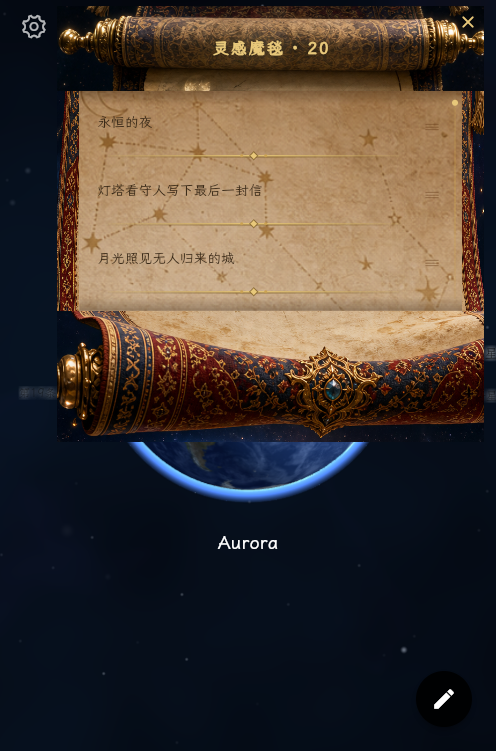
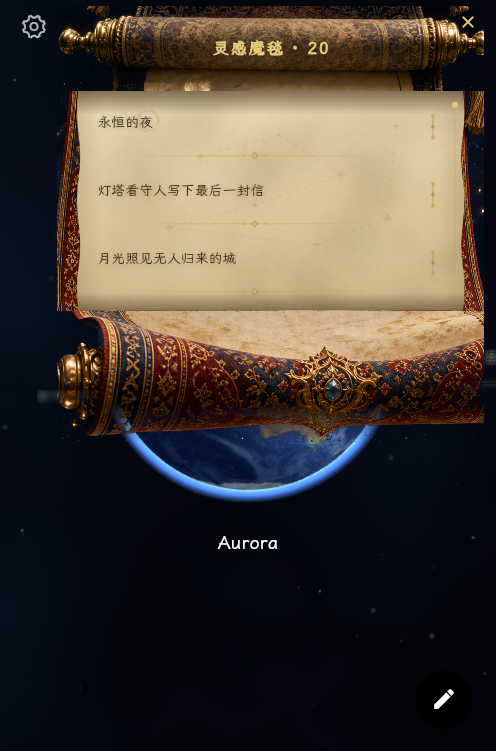
P4-R3~R7 墨迹条目与滚动体验收尾（返工提交 3/3）
条目视觉（R3）：
- 排序把手弃三横线系统图标，改 InkHandle"金线书签结"（两粒金珠夹
  织线+中央线结），融入卷轴材质、不当视觉主角（新增护栏断言）；
- 金色分隔纹轻量化：短跨度半透明单线+缩小菱饰，只作轻装饰不像表格线；
- 灵感文字加轻微墨晕（阴影模拟墨渗纸纤维），字距微调。

滚动与动效（R4/R5）：
- 顶部 24px 卷入阴影 / 底部 18px 卷边阴影（上一提交就位）配合固定
  面板高：底部自然半露下一条淡墨开头，滚动读作"纸面在滚轴间移动"；
- 右侧墨迹进度线接主时间线：展开分镜最后淡入（0.85~1），收起最先退场；
- 羊皮纸底色调暖（E7D5B0→D0B98A）贴近参考图。

工具：e2e_probe 新增 tapshot（单进程 tap+延时抓帧，跨进程启动延迟
会错过 480ms 反向卷回）与 holdshot（按住中途抓帧，拖拽浮影只在按住
期间存在）。

验收证据全套存 docs/ui_review/rounds/2026-07-15/p4-scroll-carpet-rework/：
0/1/5/7/20 条首页截图均可见地球；拖拽中_墨迹浮起（羊皮纸浮影+垃圾桶+
面板让路+地球全貌）；收起中_反向卷回（纸面卷回滚轴帧）。
flutter analyze 零问题；全量测试 214 项全绿。
待办（已记 DevelopmentPlan）：真机动效手感复验、粒子层（辉光已挂开关）。

diff --git a/lib/presentation/outline/scroll_carpet.dart b/lib/presentation/outline/scroll_carpet.dart
@@ -108,6 +108,7 @@ class ScrollParchmentBody extends StatelessWidget {
     super.key,
     required this.child,
     this.progress,
+    this.progressOpacity = 1,
     this.glow = false,
   });
 
@@ -115,6 +116,9 @@ class ScrollParchmentBody extends StatelessWidget {
 
   /// 滚动进度 0~1（null = 无溢出，不显示进度线）
   final double? progress;
+
+  /// 进度线透明度（展开分镜里进度线**最后**淡入，收起时最先退场）
+  final double progressOpacity;
 
   /// 高级效果：进度金点带辉光
   final bool glow;
@@ -206,14 +210,65 @@ class ScrollParchmentBody extends StatelessWidget {
             top: 14,
             bottom: 14,
             width: 10,
-            child: CustomPaint(
-              key: const Key('卷轴进度线'),
-              painter: InkProgressPainter(t: progress!, glow: glow),
+            child: Opacity(
+              opacity: progressOpacity.clamp(0.0, 1.0),
+              child: CustomPaint(
+                key: const Key('卷轴进度线'),
+                painter: InkProgressPainter(t: progress!, glow: glow),
+              ),
             ),
           ),
       ],
     );
   }
+}
+
+/// 排序把手：织入卷轴的"金线书签结"——两粒金珠夹一段织线（R3 定稿：
+/// 不再用三横线系统图标，操作暗示融进材质，不当视觉主角）。
+class InkHandle extends StatelessWidget {
+  const InkHandle({super.key});
+
+  @override
+  Widget build(BuildContext context) {
+    return const SizedBox(
+      width: 14,
+      height: 32,
+      child: CustomPaint(painter: _InkHandlePainter()),
+    );
+  }
+}
+
+class _InkHandlePainter extends CustomPainter {
+  const _InkHandlePainter();
+
+  @override
+  void paint(Canvas canvas, Size size) {
+    final cx = size.width / 2;
+    // 织线
+    canvas.drawLine(
+      Offset(cx, 5),
+      Offset(cx, size.height - 5),
+      Paint()
+        ..color = const Color(0x59795A22)
+        ..strokeWidth = 1
+        ..strokeCap = StrokeCap.round,
+    );
+    // 上下金珠
+    final bead = Paint()..color = const Color(0xB3C9A050);
+    canvas.drawCircle(Offset(cx, 5), 2.0, bead);
+    canvas.drawCircle(Offset(cx, size.height - 5), 2.0, bead);
+    // 中央织线结（小菱形）
+    final knot = Path()
+      ..moveTo(cx, size.height / 2 - 2.4)
+      ..lineTo(cx + 2.4, size.height / 2)
+      ..lineTo(cx, size.height / 2 + 2.4)
+      ..lineTo(cx - 2.4, size.height / 2)
+      ..close();
+    canvas.drawPath(knot, Paint()..color = const Color(0x8CA9812F));
+  }
+
+  @override
+  bool shouldRepaint(_InkHandlePainter oldDelegate) => false;
 }
 
 /// 不规则纸边：左右缘轻微波浪（真实羊皮纸不会是刀切矩形），
@@ -273,7 +328,7 @@ class ParchmentPainter extends CustomPainter {
         ..shader = const LinearGradient(
           begin: Alignment.topCenter,
           end: Alignment.bottomCenter,
-          colors: [Color(0xFFEADDBE), Color(0xFFE2D0A9), Color(0xFFD8C398)],
+          colors: [Color(0xFFE7D5B0), Color(0xFFDDC79C), Color(0xFFD0B98A)],
         ).createShader(rect),
     );
     // 斑驳陈化：固定种子的柔和色斑（深沉/偏亮两组）
@@ -420,31 +475,20 @@ class _GoldDividerPainter extends CustomPainter {
   void paint(Canvas canvas, Size size) {
     final cy = size.height / 2;
     final cx = size.width / 2;
-    // 两端渐隐的金线（深金描边 + 亮金主线，羊皮纸上要压得住底纹）
+    // 轻装饰金线（R3：分隔纹不能强到像表格线——短跨度、半透明）
     final rect = Rect.fromLTWH(0, cy - 1, size.width, 2);
-    final under = Paint()
-      ..strokeWidth = 2.4
-      ..strokeCap = StrokeCap.round
-      ..shader = const LinearGradient(
-        colors: [Color(0x00795A22), Color(0xB3795A22), Color(0x00795A22)],
-      ).createShader(rect);
-    canvas.drawLine(
-      Offset(size.width * 0.06, cy + 0.6),
-      Offset(size.width * 0.94, cy + 0.6),
-      under,
-    );
     final line = Paint()
-      ..strokeWidth = 1.4
+      ..strokeWidth = 1.1
       ..strokeCap = StrokeCap.round
       ..shader = const LinearGradient(
-        colors: [Color(0x00E8C87A), Color(0xFFE8C87A), Color(0x00E8C87A)],
+        colors: [Color(0x00C9A050), Color(0x8CC9A050), Color(0x00C9A050)],
       ).createShader(rect);
     canvas.drawLine(
-      Offset(size.width * 0.06, cy),
-      Offset(size.width * 0.94, cy),
+      Offset(size.width * 0.16, cy),
+      Offset(size.width * 0.84, cy),
       line,
     );
-    // 中央菱形星饰（深金衬底 + 亮金本体）
+    // 中央菱形星饰（缩小、半透明，只作点缀）
     void diamond(double r, Paint p) {
       final path = Path()
         ..moveTo(cx, cy - r)
@@ -455,12 +499,12 @@ class _GoldDividerPainter extends CustomPainter {
       canvas.drawPath(path, p);
     }
 
-    diamond(4.6, Paint()..color = const Color(0xCC795A22));
-    diamond(3.4, Paint()..color = const Color(0xFFE8C87A));
+    diamond(3.6, Paint()..color = const Color(0x73795A22));
+    diamond(2.6, Paint()..color = const Color(0xCCE0BE72));
     // 菱形两侧的小点
-    final dot = Paint()..color = const Color(0xE6C9A050);
-    canvas.drawCircle(Offset(cx - 12, cy), 1.5, dot);
-    canvas.drawCircle(Offset(cx + 12, cy), 1.5, dot);
+    final dot = Paint()..color = const Color(0x99C9A050);
+    canvas.drawCircle(Offset(cx - 11, cy), 1.2, dot);
+    canvas.drawCircle(Offset(cx + 11, cy), 1.2, dot);
   }
 
   @override

diff --git a/lib/presentation/outline/magic_carpet.dart b/lib/presentation/outline/magic_carpet.dart
@@ -604,10 +604,10 @@ class MagicCarpetState extends ConsumerState<MagicCarpet>
                 children: [
                   SizedBox(
                     height: listArea,
-                    // ListenableBuilder 只重建纸壳（进度线跟随滚动），
+                    // ListenableBuilder 只重建纸壳（进度线跟随滚动与主时间线），
                     // content 作 child 缓存不随滚动重建
                     child: ListenableBuilder(
-                      listenable: _listScroll,
+                      listenable: Listenable.merge([_listScroll, _unroll]),
                       builder: (context, child) {
                         double? progress;
                         if (overflow) {
@@ -622,6 +622,9 @@ class MagicCarpetState extends ConsumerState<MagicCarpet>
                         }
                         return ScrollParchmentBody(
                           progress: progress,
+                          // 分镜定稿：进度线**最后**淡入（收起时最先退场）
+                          progressOpacity: ((_unroll.value - 0.85) / 0.15)
+                              .clamp(0.0, 1.0),
                           glow: glow,
                           child: child!,
                         );
@@ -746,18 +749,13 @@ class MagicCarpetState extends ConsumerState<MagicCarpet>
                     ],
                   ),
                 ),
-                // 排序把手：按住直接拖动重排
+                // 排序把手：金线书签结（融入卷轴材质，不用系统图标）
                 ReorderableDragStartListener(
                   index: i,
                   child: Padding(
                     padding: const EdgeInsets.only(left: 6),
                     child: Center(
-                      child: Icon(
-                        CupertinoIcons.line_horizontal_3,
-                        key: Key('魔毯排序把手_${pool[i].id}'),
-                        size: 16,
-                        color: const Color(0x99693F1A),
-                      ),
+                      child: InkHandle(key: Key('魔毯排序把手_${pool[i].id}')),
                     ),
                   ),
                 ),
@@ -879,6 +877,15 @@ class CarpetItem extends StatelessWidget {
           fontSize: big ? 19 : 13.5,
           height: big ? 1.7 : 1.35,
           fontWeight: FontWeight.w600,
+          letterSpacing: big ? 2 : 0.4,
+          // 轻微墨晕：像墨渗进纸纤维，而不是浮在纸上的控件文字
+          shadows: const [
+            Shadow(
+              color: Color(0x30321F0E),
+              blurRadius: 2.2,
+              offset: Offset(0.4, 0.9),
+            ),
+          ],
         ),
       ),
     );

diff --git a/scripts/e2e_probe.dart b/scripts/e2e_probe.dart
@@ -9,6 +9,7 @@
 import 'dart:async';
 import 'dart:convert';
 import 'dart:io';
+import 'dart:math' as math;
 
 const _port = 9222;
 final _stateFile = File(
@@ -174,6 +175,61 @@ Future<void> main(List<String> args) async {
       final b64 = ((r['result'] as Map)['data']) as String;
       File(args[1]).writeAsBytesSync(base64Decode(b64));
       stdout.writeln('saved ${args[1]}');
+    case 'tapshot':
+      // 点击后延时 ms 毫秒抓帧（单进程内完成：跨进程起动延迟会错过
+      // 短动画帧，如魔毯收起的 480ms 反向卷回）
+      final tx = double.parse(args[1]), ty = double.parse(args[2]);
+      final delay = int.parse(args[3]);
+      for (final type in ['mousePressed', 'mouseReleased']) {
+        await send('Input.dispatchMouseEvent', {
+          'type': type,
+          'x': tx,
+          'y': ty,
+          'button': 'left',
+          'clickCount': 1,
+        });
+      }
+      await Future<void>.delayed(Duration(milliseconds: delay));
+      final ts = await send('Page.captureScreenshot', {'format': 'png'});
+      final tb64 = ((ts['result'] as Map)['data']) as String;
+      File(args[4]).writeAsBytesSync(base64Decode(tb64));
+      stdout.writeln('tapshot saved ${args[4]}');
+    case 'holdshot':
+      // 按住不放并在 shotAt 毫秒时抓帧，再继续按满 holdMs 后抬起
+      //（拖拽中态：LongPressDraggable 浮影只在按住期间存在）
+      final hx2 = double.parse(args[1]), hy2 = double.parse(args[2]);
+      final holdMs = int.parse(args[3]);
+      final shotAt = int.parse(args[4]);
+      await send('Input.dispatchMouseEvent', {
+        'type': 'mousePressed',
+        'x': hx2,
+        'y': hy2,
+        'button': 'left',
+        'clickCount': 1,
+      });
+      await Future<void>.delayed(Duration(milliseconds: shotAt));
+      // 拖出几像素让拖拽浮影就位
+      await send('Input.dispatchMouseEvent', {
+        'type': 'mouseMoved',
+        'x': hx2 - 20,
+        'y': hy2 + 30,
+        'button': 'left',
+      });
+      await Future<void>.delayed(const Duration(milliseconds: 250));
+      final hs = await send('Page.captureScreenshot', {'format': 'png'});
+      final hb64 = ((hs['result'] as Map)['data']) as String;
+      File(args[5]).writeAsBytesSync(base64Decode(hb64));
+      await Future<void>.delayed(
+        Duration(milliseconds: math.max(0, holdMs - shotAt - 250)),
+      );
+      await send('Input.dispatchMouseEvent', {
+        'type': 'mouseReleased',
+        'x': hx2 - 20,
+        'y': hy2 + 30,
+        'button': 'left',
+        'clickCount': 1,
+      });
+      stdout.writeln('holdshot saved ${args[5]}');
     default:
       stderr.writeln('未知命令 $cmd');
       exit(2);

diff --git a/test/presentation/magic_carpet_test.dart b/test/presentation/magic_carpet_test.dart
@@ -110,6 +110,11 @@ void main() {
       findsNWidgets(2),
       reason: '3 条灵感之间应有 2 道金色分隔纹（最后一条不画）',
     );
+    expect(
+      find.byType(InkHandle),
+      findsNWidgets(3),
+      reason: '排序把手是融入材质的金线书签结，每行一个',
+    );
     final src = File(
       'lib/presentation/outline/magic_carpet.dart',
     ).readAsStringSync();
@@ -117,6 +122,11 @@ void main() {
       src,
       isNot(contains('0xFAFFFCF4')),
       reason: '白色卡片底已退役：墨迹直接写在羊皮纸上（方案二红线）',
+    );
+    expect(
+      src,
+      isNot(contains('line_horizontal_3')),
+      reason: '三横线系统图标已退役（R3：操作暗示要融入卷轴材质）',
     );
   });
 

diff --git a/DevelopmentPlan.md b/DevelopmentPlan.md
@@ -342,6 +342,21 @@
       源码护栏禁用"屏高减部件"公式）。真实浏览器实证：建地球后 7 条展开，
       卷轴止于屏幕中部、地球蓝色下缘与速记按钮清晰可见，截图存
       rounds/2026-07-15/p4-scroll-carpet-rework/。
+    - ✅ P4-R2 去矩形感（提交 2）：滚轴/卷边边缘带"冷色→透明"抠像（星空
+      蓝>红，织物暖色不误伤），边框内缘 alpha 渐隐；羊皮纸弃截图改
+      ParchmentPainter 手绘（渐变底/斑驳/暗角/星图水印，任意尺寸清晰，
+      RepaintBoundary 不随滚动重绘）；PaperEdgeClipper 不规则纸边透出
+      下层边框织物；顶 24px 卷入阴影 + 底 18px 卷边阴影。
+    - ✅ P4-R3~R7 墨迹与滚动收尾（提交 3）：排序把手改金线书签结
+      （InkHandle 画笔，弃三横线图标）；分隔纹轻量化（短跨度半透明，
+      不像表格线）；条目文字加墨晕（墨渗纸纤维感）；进度线按分镜最后
+      淡入/收起最先退场（接主时间线）；纸色调暖贴近参考图。
+      验收证据（rounds/2026-07-15/p4-scroll-carpet-rework/）：
+      0/1/5/7/20 条首页截图均地球可见；拖拽中_墨迹浮起（羊皮纸浮影+
+      垃圾桶+面板让路）；收起中_反向卷回（纸面卷回滚轴帧）。
+      flutter analyze 零问题、全量测试 214 全绿。
+      待办（诚实标注）：录屏以关键帧截图代替，真机动效手感待用户复验；
+      粒子层仍未做（辉光已挂 advanced3D 开关，低端降级预留）。
 - ☐ P5 小节页 3D 写作工作台（卡堆/卡片包/沉浸编辑器）
 - ☐ P6 速记与设置重构（魔法物件按钮/弹层/设置页）
 - ☐ P7 统一设计系统和验收（材质/动效 Token、视觉与性能回归）

diff --git a/docs/CODE_MAP.md b/docs/CODE_MAP.md
@@ -1,7 +1,7 @@
 # 代码地图（CODE MAP）
 
 > ⚠ 本文件由 `scripts/update_code_map.sh` 自动生成，请勿手工编辑。
-> 生成时间：2026-07-16 00:10:40　对应提交：741fb1b 之后的工作区状态
+> 生成时间：2026-07-16 00:43:01　对应提交：439acdb 之后的工作区状态
 
 ## 一、索引状态
 
@@ -13,17 +13,17 @@ Project: C:\Users\yunhao.zhou1\Desktop\Easy Create
 
 Index Statistics:
   Files:     106
-  Nodes:     4,012
-  Edges:     18,919
-  DB Size:   20.10 MB
+  Nodes:     4,018
+  Edges:     18,934
+  DB Size:   20.16 MB
   Backend:   node:sqlite - built-in (full WAL)
   Journal:   wal
 
 Nodes by Kind:
-  method          1,555
+  method          1,558
   function        1,366
-  class           462
-  import          322
+  class           464
+  import          323
   constant        181
   file            98
   variable        14
@@ -171,7 +171,7 @@ Project Structure (106 files):
 |   |   |   |-- magic_carpet.dart (dart, 63 symbols)
 |   |   |   |-- magic_tree_model.dart (dart, 34 symbols)
 |   |   |   |-- outline_page.dart (dart, 54 symbols)
-|   |   |   `-- scroll_carpet.dart (dart, 34 symbols)
+|   |   |   `-- scroll_carpet.dart (dart, 39 symbols)
 |   |   |-- section
 |   |   |   |-- card_deck_sheet.dart (dart, 19 symbols)
 |   |   |   |-- card_editor_page.dart (dart, 15 symbols)
@@ -190,7 +190,7 @@ Project Structure (106 files):
 |   |       `-- soft_toast.dart (dart, 11 symbols)
 |   `-- main.dart (dart, 14 symbols)
 |-- scripts
-|   |-- e2e_probe.dart (dart, 11 symbols)
+|   |-- e2e_probe.dart (dart, 12 symbols)
 |   `-- serve_web.dart (dart, 4 symbols)
 |-- test
 |   |-- core
